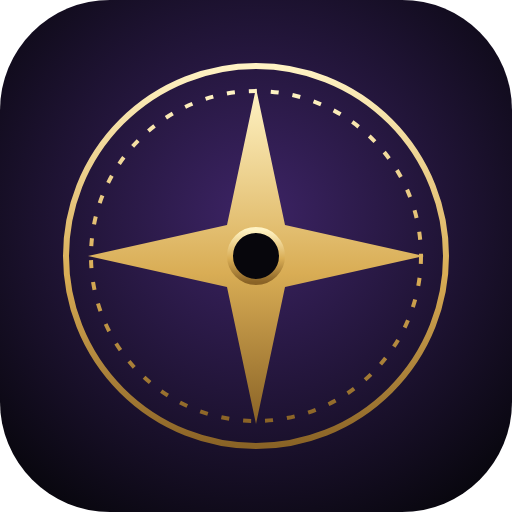
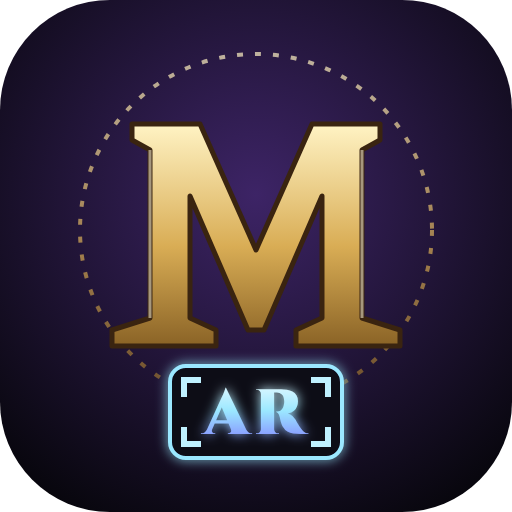
Nuevo nombre: Magic AR, con logotipo e icono propios
- Logotipo «Magic» dorado + emblema «AR» (realidad aumentada) con esquinas de escáner y barrido
- Icono nuevo de la app (M biselada + AR) en web, PWA y Android (todas las densidades)
- Pantalla de arranque de Android con fondo arcano y el icono (antes era la de Capacitor)
- Nombre de la app, título y manifiesto: Magic AR

Claude-Session: https://claude.ai/code/session_016zM7kxK5XsSNmNH7PodoDb

Changed region(s): [[0.125, 0.0938, 0.875, 0.9375], [0.7812, 0.375, 0.8125, 0.4062]]

diff --git a/src/main.js b/src/main.js
@@ -54,6 +54,14 @@ function subScreen(title, onBack, ...kids) {
     h('div', { class: 'sub-head' }, h('button', { class: 'rune-btn', onClick: onBack }, icon('back')), h('h2', {}, title)),
     h('div', { class: 'content' }, ...kids));
 }
+/** Logotipo: «Magic» dorado + emblema «AR» (realidad aumentada) con esquinas de escáner. */
+function logo(small = false) {
+  return h('div', { class: 'logo' + (small ? ' small' : '') },
+    h('span', { class: 'logo-title' }, 'Magic'),
+    h('span', { class: 'logo-ar', title: 'Realidad aumentada' },
+      h('i', { class: 'k tl' }), h('i', { class: 'k tr' }), h('i', { class: 'k bl' }), h('i', { class: 'k br' }),
+      h('b', {}, 'AR'), h('i', { class: 'scan' })));
+}
 function tarot(iconName, title, sub, tint, onClick) {
   return h('button', { class: 'tarot', style: { '--tint': tint }, onClick },
     h('div', { class: 'medal' }, icon(iconName)),
@@ -84,8 +92,8 @@ function dbLine() {
 function splash() {
   clear(app).append(screenEl('splash', h('div', { class: 'content', onClick: enter },
     h('div', { class: 'sigil', html: SIGIL }),
-    h('div', { class: 'logo-title' }, 'MagicVR'),
-    h('div', { class: 'logo-sub' }, 'La mesa arcana · aprende a jugar con tus cartas'),
+    logo(),
+    h('div', { class: 'logo-sub' }, 'Realidad aumentada para tus cartas · aprende y juega en tu mesa'),
     h('div', { class: 'tap-start' }, 'TOCA PARA EMPEZAR'),
     dbLine(),
   )));
@@ -102,7 +110,7 @@ function menu() {
   const nameInput = h('input', { class: 'field-input', placeholder: 'Tu nombre de Planeswalker', value: getName(), maxLength: 18, onInput: (e) => setName(e.target.value.trim()) });
   clear(app).append(screenEl('menu', h('div', { class: 'content' },
     h('div', { class: 'menu-left' },
-      h('div', { class: 'logo-title' }, 'MagicVR'),
+      logo(true),
       h('div', { class: 'logo-sub' }, 'Juega con tus cartas físicas. La cámara hace el resto.'),
       h('div', { class: 'name-plate' }, h('label', {}, 'Planeswalker'), nameInput),
       h('div', { class: 'menu-btns' },
@@ -289,7 +297,7 @@ function joinScreen() {
 }
 
 function share(code) {
-  const text = `¡Únete a mi partida de MagicVR! Código del portal: ${code}\n${location.href}`;
+  const text = `¡Únete a mi partida de Magic AR! Código del portal: ${code}\n${location.href}`;
   if (navigator.share) navigator.share({ text }).catch(() => {});
   else navigator.clipboard?.writeText(text).then(() => toast('Código copiado'));
 }

diff --git a/src/styles.css b/src/styles.css
@@ -754,3 +754,25 @@ h1, h2, h3, h4 { font-family: var(--title); font-weight: 700; letter-spacing: 0.
 .scan-item.last { background: rgba(125, 255, 154, 0.12); box-shadow: inset 0 0 0 1px rgba(125,255,154,.4); }
 .act.small { padding: 4px 10px; font-size: 13px; }
 @media (max-width: 700px) { .scan-frame { left: 30%; height: min(70vh, 420px); } .scan-side { width: 44vw; } }
+
+/* ---------- logotipo Magic AR ---------- */
+.logo { display: inline-flex; align-items: center; gap: clamp(10px, 2vh, 18px); }
+.logo .logo-title { display: block; }
+.logo-ar { position: relative; display: inline-flex; align-items: center; justify-content: center; overflow: hidden;
+  height: clamp(38px, 8vh, 70px); padding: 0 clamp(10px, 2.2vh, 18px); border-radius: 10px;
+  background: radial-gradient(120% 120% at 50% 0%, rgba(110, 200, 255, 0.28), rgba(60, 20, 120, 0.55) 70%), #0b0718;
+  box-shadow: inset 0 0 0 1.5px rgba(150, 220, 255, 0.55), 0 0 22px rgba(90, 190, 255, 0.35), 0 4px 10px rgba(0, 0, 0, 0.6); }
+.logo-ar b { font-family: var(--title); font-weight: 900; letter-spacing: 0.08em; font-size: clamp(26px, 6vh, 50px); line-height: 1;
+  background: linear-gradient(180deg, #ffffff 0%, #9be8ff 45%, #7a5cff 100%); -webkit-background-clip: text; background-clip: text; color: transparent;
+  filter: drop-shadow(0 0 10px rgba(120, 210, 255, 0.75)); }
+.logo-ar .k { position: absolute; width: 11px; height: 11px; border: 2.5px solid #bff1ff; filter: drop-shadow(0 0 4px #6fd6ff); }
+.logo-ar .tl { left: 4px; top: 4px; border-right: 0; border-bottom: 0; }
+.logo-ar .tr { right: 4px; top: 4px; border-left: 0; border-bottom: 0; }
+.logo-ar .bl { left: 4px; bottom: 4px; border-right: 0; border-top: 0; }
+.logo-ar .br { right: 4px; bottom: 4px; border-left: 0; border-top: 0; }
+.logo-ar .scan { position: absolute; left: 0; right: 0; height: 30%; top: -30%;
+  background: linear-gradient(180deg, transparent, rgba(160, 235, 255, 0.45), transparent); animation: arScan 2.8s ease-in-out infinite; }
+@keyframes arScan { 0%, 15% { top: -30%; } 60%, 100% { top: 110%; } }
+.logo.small .logo-ar { height: clamp(30px, 6.5vh, 52px); }
+.logo.small .logo-ar b { font-size: clamp(20px, 4.8vh, 38px); }
+.splash .logo { margin-top: 4px; }

diff --git a/index.html b/index.html
@@ -10,7 +10,7 @@
     <link rel="manifest" href="./manifest.webmanifest" />
     <link rel="icon" href="./icon.svg" type="image/svg+xml" />
     <link rel="apple-touch-icon" href="./icon.svg" />
-    <title>MagicVR</title>
+    <title>Magic AR</title>
   </head>
   <body>
     <div id="app"></div>
